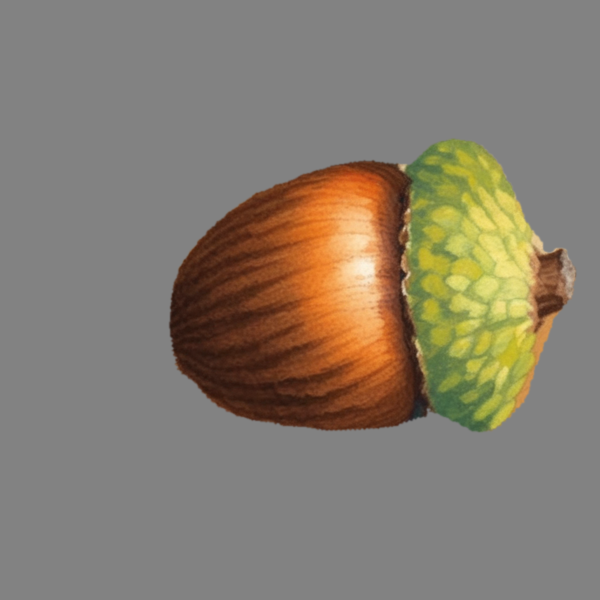
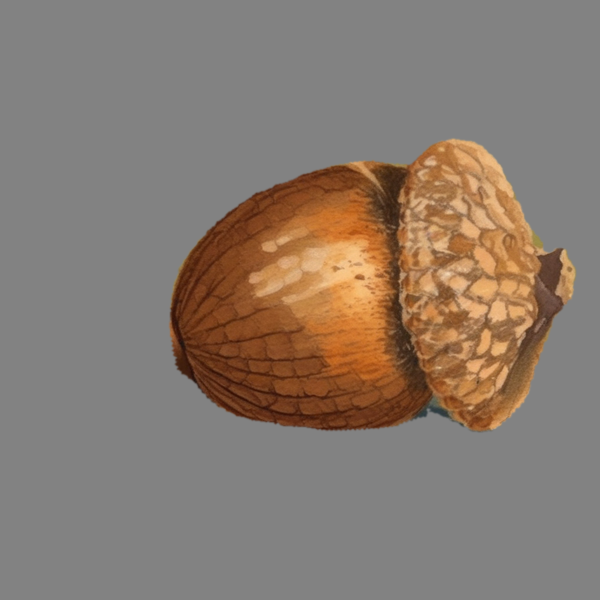
Regenerate 12 flawed illustrations (provisional picks)
Replaced: acorn (green cap), camel (legs), cloud (rain), cow (pink), crow (grey band), hamster and
monkey (fatter than the photo), rabbit (grass in cut-out), snail (two pairs of eye stalks), snake
(yellow/teal), squirrel (white paw blob), turkey (two heads; now drawn from turkey_11s).

Candidates: ControlNet 0.9, seeds 2-4, corrected prompt labels. Picks are provisional, chosen for
the specific flaw plus silhouette IoU against the photo mask; seed and reason per word are in
stimuli/stylize_params.csv, every candidate is in docs/figures/illustration_redo_candidates.png,
and the replaced images are in stimuli/images/history/round1/. Silhouette IoU: mean .90 -> .93,
min .60 -> .82 (monkey .89, hamster .85).

Revert this commit to restore round 1.

Claude-Session: https://claude.ai/code/session_017kg78p8Jjdrxw3AJ9ZPyJB

Changed region(s): [[0.27, 0.21, 0.96, 0.72]]

diff --git a/analysis/04_stylized_stimuli.md b/analysis/04_stylized_stimuli.md
@@ -24,10 +24,21 @@ print(sp[sp.label != sp.word].to_string(index=False))
 
     style
     illustration    32
-           style    word  seed  cscale               label  round
-    illustration balloon     1     0.7   red party balloon      1
-    illustration  lizard     1     0.7        brown lizard      1
-    illustration    frog     1     0.7 yellow spotted frog      1
+           style     word  seed  cscale                                         label  round                                                                           note
+    illustration    cloud     4     0.9        single white cloud in a clear blue sky      2 no rain; best silhouette (IoU .89 vs .72/.56); small sun lies outside the mask
+    illustration squirrel     3     0.9                         grey squirrel sitting      2                                      grey squirrel, no white paw blob; IoU .93
+    illustration   monkey     3     0.9                                monkey sitting      2  silhouette fixed: IoU .89 area x1.03 (was .60 x1.66); s2/s4 still x2.08/x1.46
+    illustration   turkey     4     0.9                   single turkey with one head      2                                            one head (from turkey_11s); IoU .96
+    illustration  balloon     1     0.7                             red party balloon      1                                                                            NaN
+    illustration   lizard     1     0.7                                  brown lizard      1                                                                            NaN
+    illustration    snake     3     0.9               brown and black patterned snake      2                            brown/black like the photo (s4 orange-red); IoU .88
+    illustration     frog     1     0.7                           yellow spotted frog      1                                                                            NaN
+    illustration     crow     2     0.9                  black crow standing on grass      2                                                     no grey band at the bottom
+    illustration    camel     4     0.9                   camel standing on four legs      2                                               legs clearest; all three IoU .93
+    illustration    snail     4     0.9 garden snail with a single pair of eye stalks      2                           single pair of eye stalks; best silhouette (IoU .95)
+    illustration    acorn     3     0.9            brown acorn with a brown scaly cap      2             brown cap; s2 has a green leaf inside the cut-out, s4 a white band
+    illustration      cow     4     0.9                  black and white holstein cow      2                               black and white (s2 grey-blue, s3 pinkish belly)
+    illustration   rabbit     2     0.9                             brown wild rabbit      2                     least grass inside the cut-out (3.3% green vs 8.6% before)
 
 Words whose prompt label differs from the bare word: “balloon” alone
 drifts to a hot-air balloon, and lizard/frog drift to green.
@@ -52,53 +63,76 @@ else:
 
     style             illustration
     iou        count         32.00
-               mean           0.90
-               std            0.09
-               min            0.60
-               25%            0.86
+               mean           0.93
+               std            0.05
+               min            0.82
+               25%            0.90
                50%            0.94
-               75%            0.96
+               75%            0.97
                max            0.98
     area_ratio count         32.00
-               mean           1.02
-               std            0.15
+               mean           1.00
+               std            0.06
                min            0.84
                25%            0.97
                50%            0.99
                75%            1.01
-               max            1.66 
+               max            1.19 
 
-           style    word   iou  area_ratio
-    illustration  monkey 0.596       1.659
-    illustration hamster 0.657       1.371
-    illustration  turkey 0.820       1.040
-    illustration    worm 0.823       0.845
-    illustration   snake 0.830       0.842
-    illustration     car 0.839       1.191
-    illustration  lizard 0.844       1.049
-    illustration  rabbit 0.847       0.903
+           style      word   iou  area_ratio
+    illustration      worm 0.823       0.845
+    illustration       car 0.839       1.191
+    illustration   hamster 0.844       1.070
+    illustration    lizard 0.844       1.049
+    illustration    rabbit 0.863       0.955
+    illustration bulldozer 0.866       0.960
+    illustration    monkey 0.878       1.068
+    illustration     snake 0.893       0.901
 
-## Known flaws under repair
+## Regenerated illustrations (round 2)
 
-From review of the first-round illustrations. Redo candidates
-(`10_stylize.py --candidates`, ControlNet scale 0.9, seeds 2–4,
-corrected labels) replace a word once a candidate is picked; the
-replaced image moves to `stimuli/images/history/round{k}/`.
+Flaws found on review of the first-round illustrations, and the redo
+that replaced each. Candidates were generated with ControlNet scale 0.9,
+seeds 2–4 and a corrected prompt label (`10_stylize.py --candidates`).
+Picks are **provisional**: chosen for the specific flaw and the
+silhouette IoU against the photo mask. Replaced versions are in
+`stimuli/images/history/round1/`. Every candidate, beside the photo and
+the old version: `docs/figures/illustration_redo_candidates.png`.
 
-| Word            | Problem                                                   | Fix being tried                                       |
-|-----------------|-----------------------------------------------------------|-------------------------------------------------------|
-| snail           | two pairs of eye stalks                                   | label “garden snail with a single pair of eye stalks” |
-| turkey          | two heads (the turkey_04s photo shows two birds)          | swap the exemplar to turkey_11s, regenerate           |
-| acorn           | green cap                                                 | label “brown acorn with a brown scaly cap”            |
-| camel           | hind legs muddled                                         | label “camel standing on four legs”                   |
-| squirrel        | white blob at the paws                                    | label “grey squirrel sitting”                         |
-| crow            | grey band across the bottom                               | label “black crow standing on grass”                  |
-| cloud           | rain streaks                                              | label “single white cloud in a clear blue sky”        |
-| cow             | pink                                                      | label “black and white holstein cow”                  |
-| snake           | yellow / teal                                             | label “brown and black patterned snake”               |
-| rabbit          | grass inside the cut-out                                  | label “brown wild rabbit”                             |
-| hamster, monkey | fatter than the photo (IoU .66 / .60; area ×1.37 / ×1.66) | stronger ControlNet (0.9); monkey “monkey sitting”    |
+| Word     | Problem in round 1                                | Prompt label for the redo                         |
+|----------|---------------------------------------------------|---------------------------------------------------|
+| snail    | two pairs of eye stalks                           | garden snail with a single pair of eye stalks     |
+| turkey   | two heads (the turkey_04s photo showed two birds) | single turkey with one head (now from turkey_11s) |
+| acorn    | green cap                                         | brown acorn with a brown scaly cap                |
+| camel    | hind legs muddled                                 | camel standing on four legs                       |
+| squirrel | white blob at the paws                            | grey squirrel sitting                             |
+| crow     | grey band across the bottom                       | black crow standing on grass                      |
+| cloud    | rain streaks                                      | single white cloud in a clear blue sky            |
+| cow      | pink                                              | black and white holstein cow                      |
+| snake    | yellow / teal                                     | brown and black patterned snake                   |
+| rabbit   | grass inside the cut-out                          | brown wild rabbit                                 |
+| hamster  | fatter than the photo (IoU .66, area ×1.37)       | hamster (ControlNet 0.9 only)                     |
+| monkey   | fatter than the photo (IoU .60, area ×1.66)       | monkey sitting                                    |
 
-Hamster and monkey are fatter because img2img at strength 1.0 with
-ControlNet at 0.7 lets SDXL drift toward its prior body shape; the photo
-mask then trims the illustration’s cut-out.
+Hamster and monkey were fat because img2img at strength 1.0 with
+ControlNet at 0.7 let SDXL drift toward its prior body shape; the photo
+mask then trimmed the illustration’s cut-out. The pick and the reason
+for each word:
+
+``` python
+print(sp[(sp['style'] == 'illustration') & (sp['round'] == 2)][['word', 'seed', 'note']].to_string(index=False))
+```
+
+        word  seed                                                                           note
+       cloud     4 no rain; best silhouette (IoU .89 vs .72/.56); small sun lies outside the mask
+    squirrel     3                                      grey squirrel, no white paw blob; IoU .93
+      monkey     3  silhouette fixed: IoU .89 area x1.03 (was .60 x1.66); s2/s4 still x2.08/x1.46
+      turkey     4                                            one head (from turkey_11s); IoU .96
+       snake     3                            brown/black like the photo (s4 orange-red); IoU .88
+        crow     2                                                     no grey band at the bottom
+       camel     4                                               legs clearest; all three IoU .93
+       snail     4                           single pair of eye stalks; best silhouette (IoU .95)
+       acorn     3             brown cap; s2 has a green leaf inside the cut-out, s4 a white band
+         cow     4                               black and white (s2 grey-blue, s3 pinkish belly)
+      rabbit     2                     least grass inside the cut-out (3.3% green vs 8.6% before)
+     hamster     4        silhouette fixed: IoU .85 area x1.03 (was .66 x1.37); s2/s3 still x1.25
